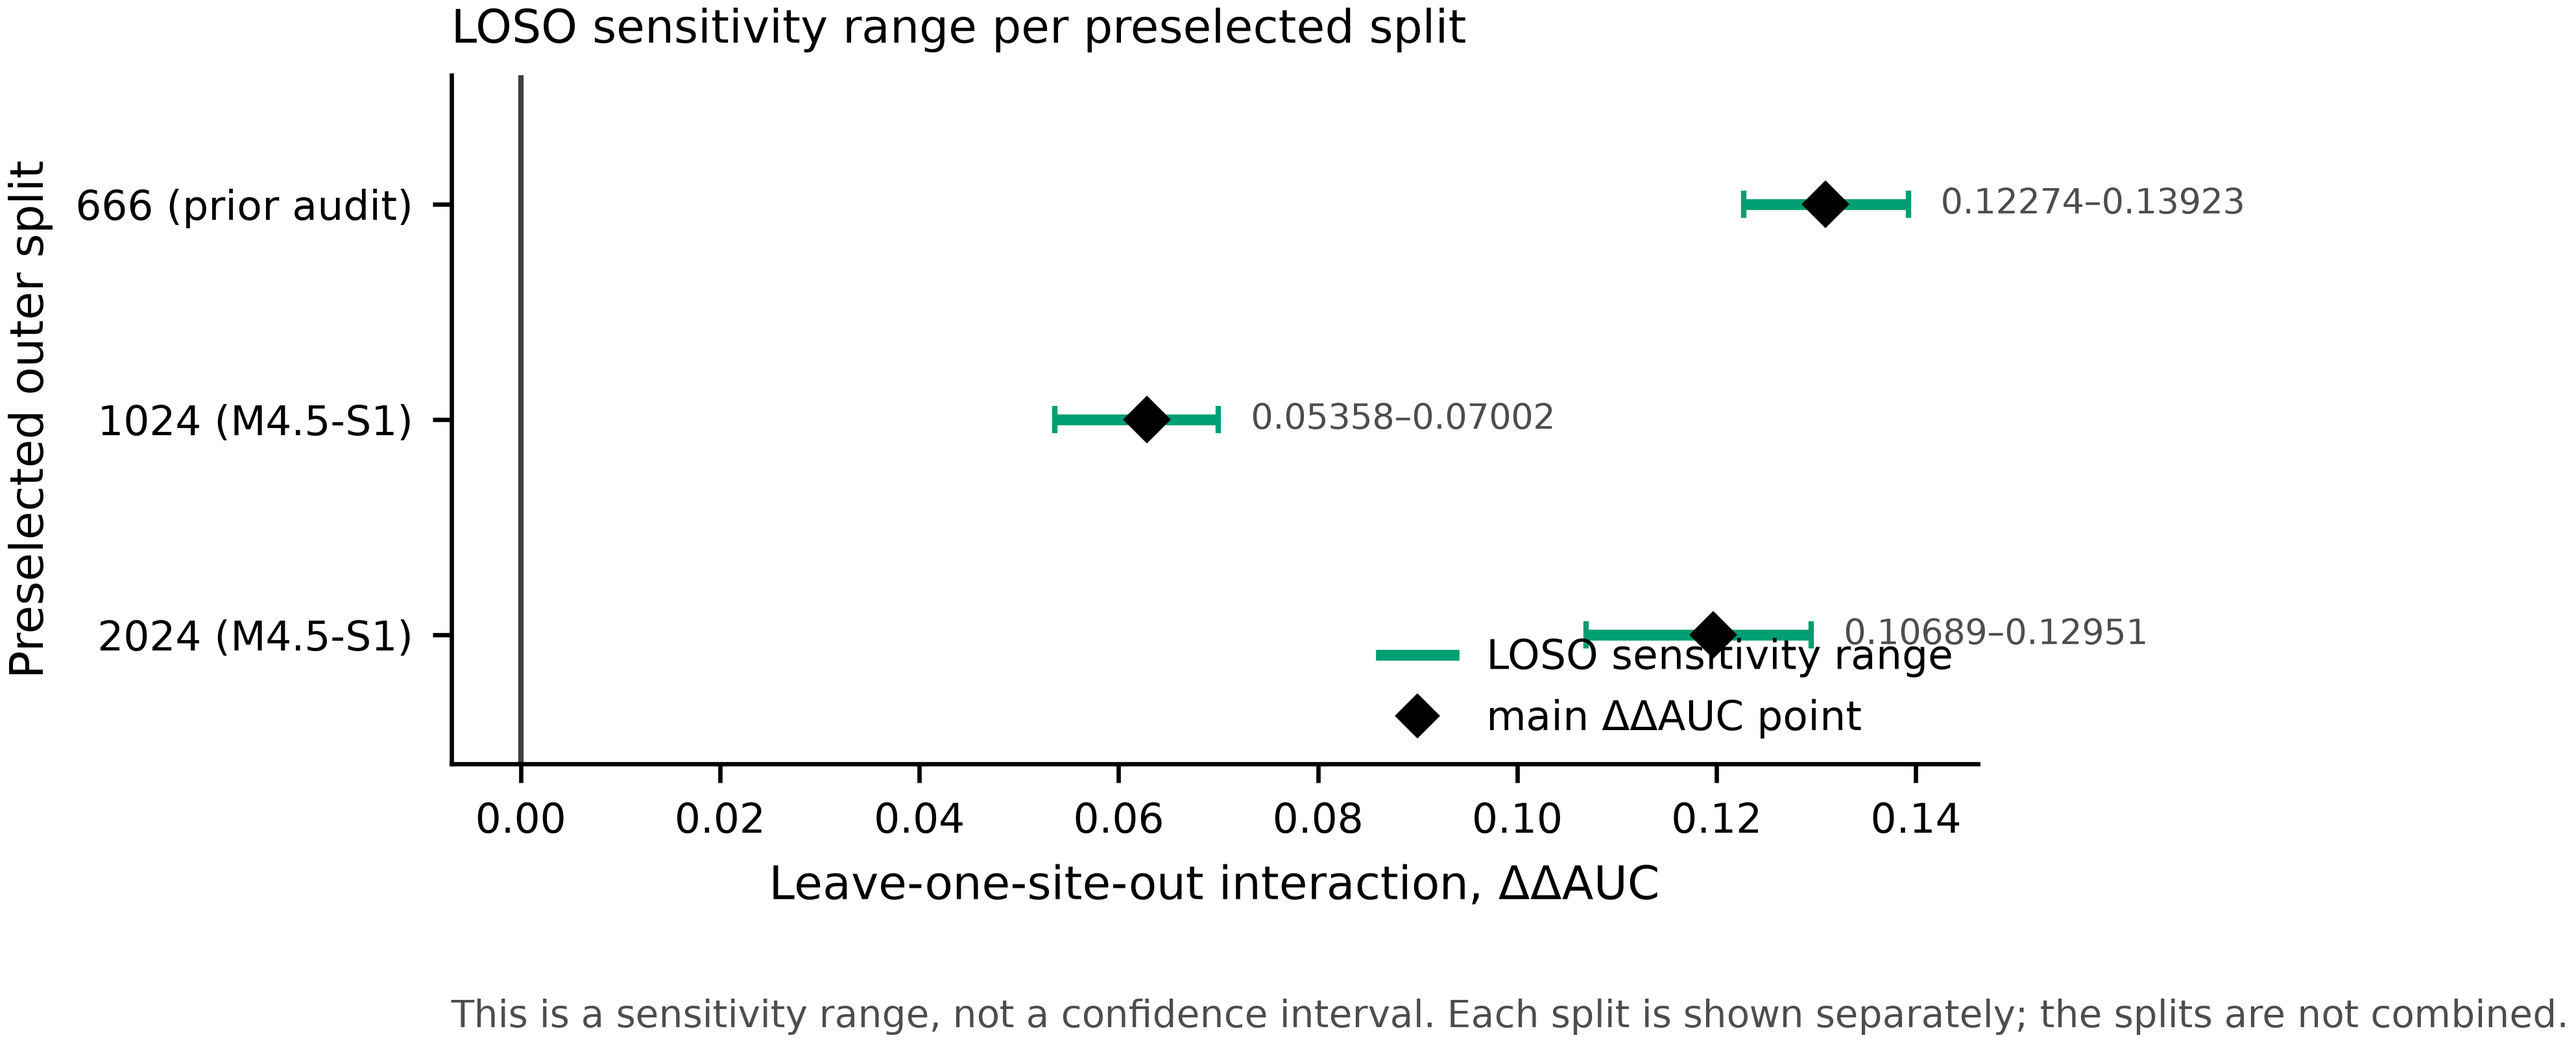
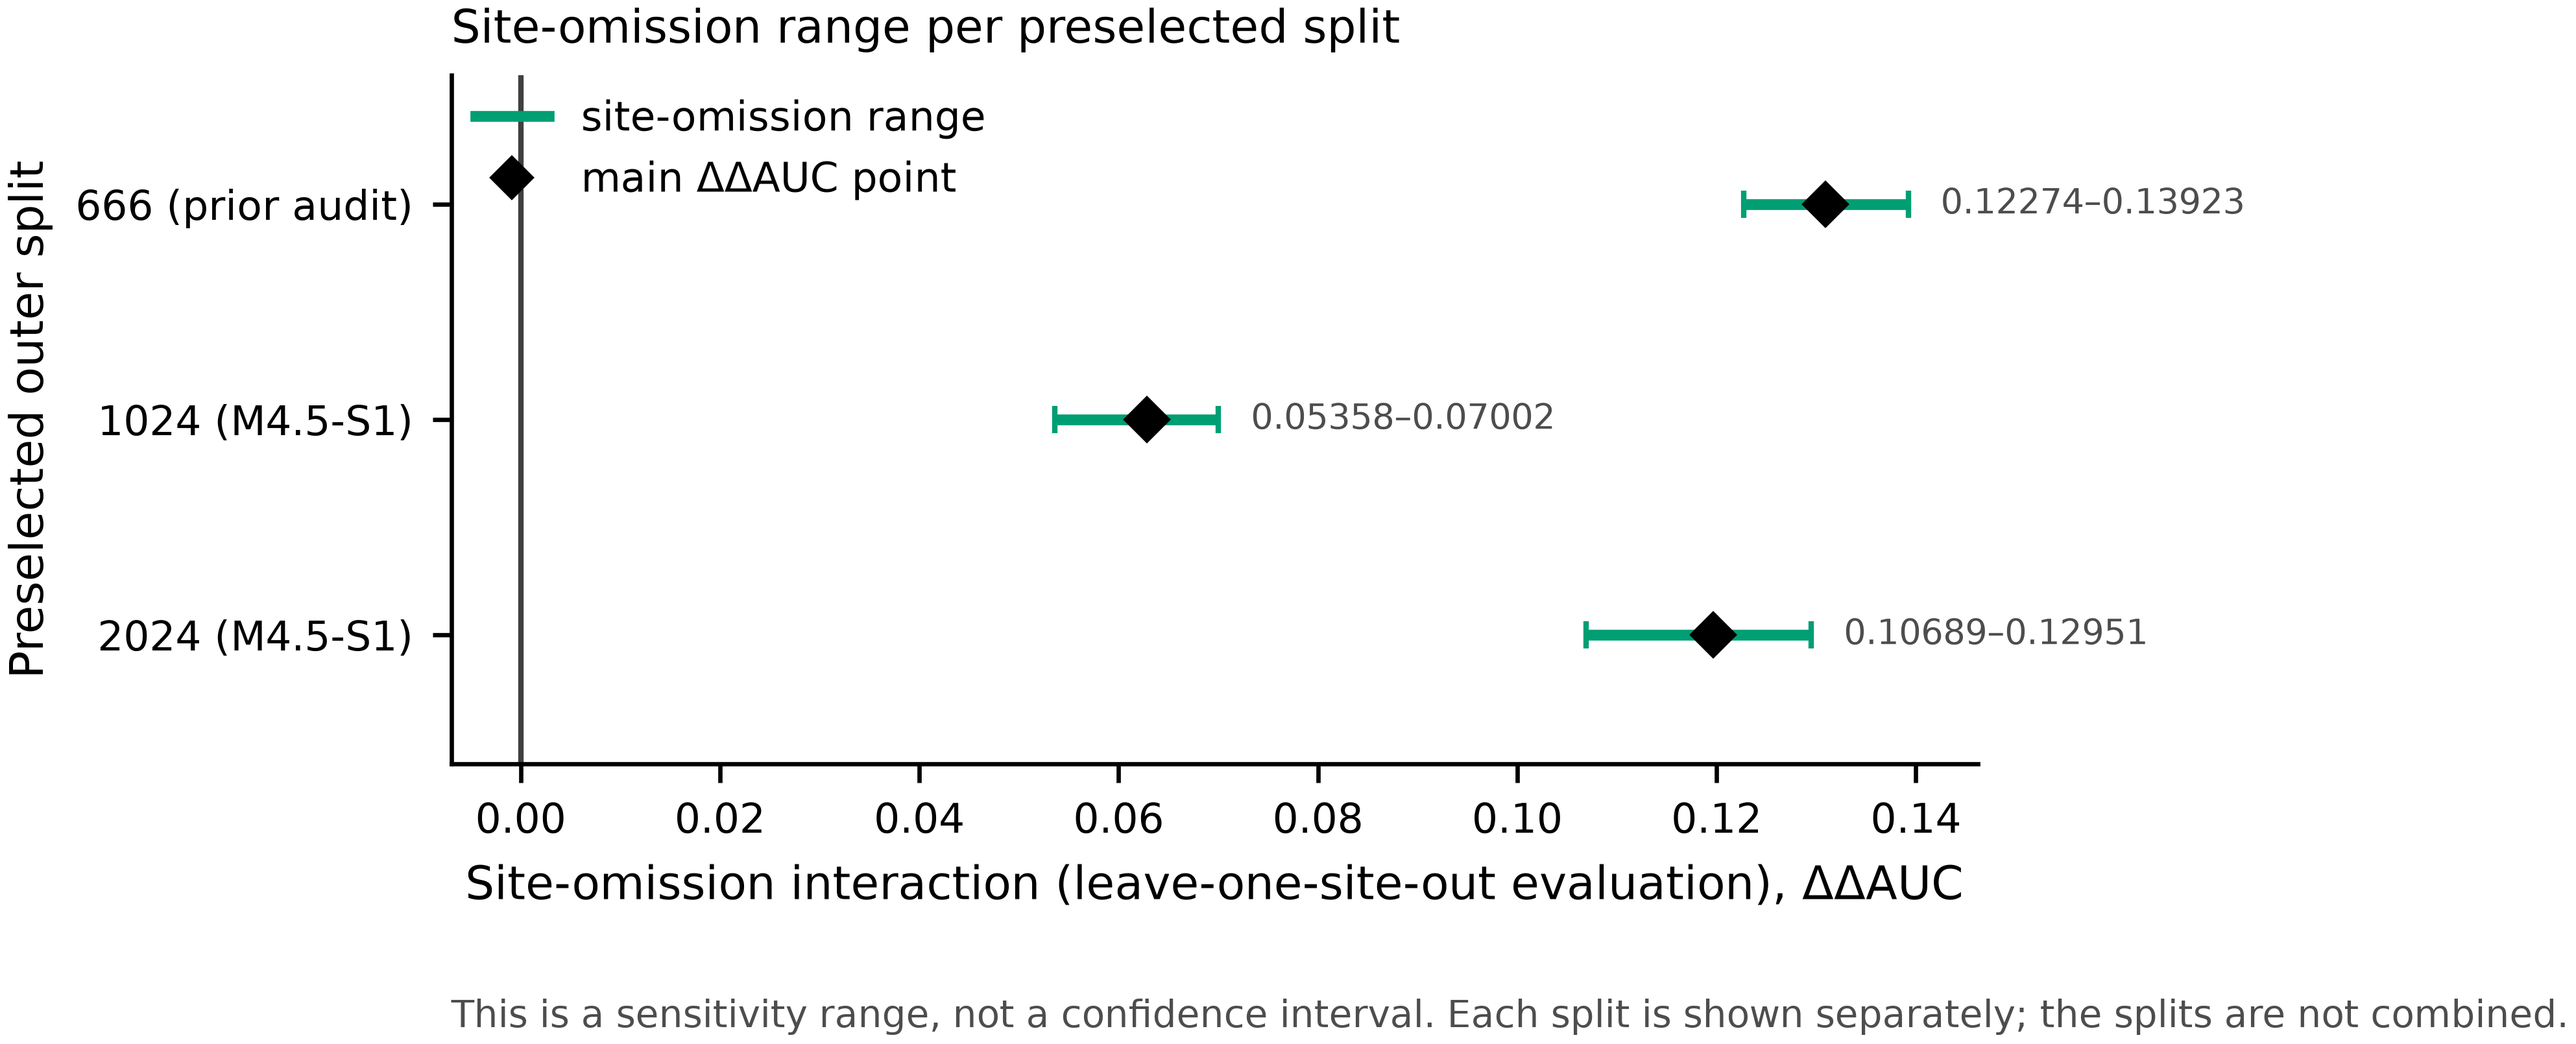
R5: sync public docs, citation and Figure S1 with manuscript RC5.3
- README: manuscript/version/date mapping (RC4 -> v1.0.0, RC5.3 -> this revision);
  bioRxiv submitted 2026-10-02, first posted 2026-10-08; preprint DOI and CC-BY 4.0
- CITATION.cff: preferred-citation for the preprint DOI (software version untouched)
- docs/REGIME_DEFINITIONS.md: site-omission is computed on fixed OOF predictions, no refit
- figures/FS2: LOSO -> site-omission wording, legend lower-right -> upper-left, regenerated
  PDF/SVG/PNG and manifest; numeric content unchanged
- CHANGELOG.md: 1.0.1 (unreleased) entries
No result, split, prediction or checkpoint changed.

diff --git a/figures/FS2_loso_sensitivity.py b/figures/FS2_loso_sensitivity.py
@@ -124,12 +124,12 @@ ax.set_yticks([ys[s] for s in ("666", "1024", "2024")],
               [STAGE_LABEL[s] for s in ("666", "1024", "2024")])
 ax.set_ylim(-0.6, 2.6)
 ax.set_ylabel("Preselected outer split")
-ax.set_xlabel("Leave-one-site-out interaction, ΔΔAUC")
-ax.set_title("LOSO sensitivity range per preselected split", loc="left", pad=6)
+ax.set_xlabel("Site-omission interaction (leave-one-site-out evaluation), ΔΔAUC")
+ax.set_title("Site-omission range per preselected split", loc="left", pad=6)
 ax.legend(handles=[
-    Line2D([], [], color=CB["green"], lw=2.0, label="LOSO sensitivity range"),
+    Line2D([], [], color=CB["green"], lw=2.0, label="site-omission range"),
     Line2D([], [], color="black", marker="D", ls="none", ms=5, label="main ΔΔAUC point"),
-], loc="lower right", frameon=False, handlelength=1.8, borderaxespad=0.2)
+], loc="upper left", frameon=False, handlelength=1.8, borderaxespad=0.2)
 ax.annotate("This is a sensitivity range, not a confidence interval. Each split is shown "
             "separately; the splits are not combined.",
             xy=(0, -0.34), xycoords="axes fraction", fontsize=7.0, color=CB["grey"],
@@ -188,6 +188,11 @@ manifest = {
     "shared_module": {"path": "figures/_frozen_inputs.py",
                       "sha256": sha(Path(__file__).resolve().parent / "_frozen_inputs.py")},
     "command": "python3 figures/FS2_loso_sensitivity.py  (run from the repository root; pinned artifacts were rendered from this source)",
+    "revision_note": "261018: in-figure wording changed from LOSO to site-omission (title, x-axis, legend), "
+                     "and the legend was moved from lower-right to upper-left. The previously shipped PDF "
+                     "shows the legend at upper-left although this script said 'lower right', so the shipped "
+                     "artwork and the script were not in agreement; regeneration now matches the shipped layout. "
+                     "No value, range or axis scale changed.",
     "outputs": {o: sha(FIGDIR / o) for o in ("FS2_loso_sensitivity.pdf", "FS2_loso_sensitivity.svg",
                                              "FS2_loso_sensitivity.png")},
     "environment": {"python": platform.python_version(), "matplotlib": matplotlib.__version__,

diff --git a/CHANGELOG.md b/CHANGELOG.md
@@ -1,0 +1,38 @@
+# Changelog
+
+## 1.0.1 (unreleased; prepared 2026-10-19)
+
+Documentation, display and metadata only. No result, range, split, prediction or checkpoint was
+recomputed, and nothing in `frozen_results/` changed.
+
+### Terminology
+
+- Figure S1 (supplementary site-omission sensitivity plot): `LOSO` replaced by `site-omission` in
+  the title, the x-axis label and the legend. The analysis omits one site at a time from the
+  **fixed** out-of-fold predictions and does not refit; `P5/LOSO` remains the name of the
+  training-time campaign on axis (b).
+- `docs/REGIME_DEFINITIONS.md`: added a paragraph that separates the reported site-omission
+  sensitivity range from the P5/LOSO training regime.
+
+### Display
+
+- Figure S1: the legend moved from lower-right to upper-left. The shipped v1.0.0 artwork already
+  showed it upper-left while the script still said `lower right`; the regenerated figure now
+  agrees with both the shipped layout and the script.
+- `figures/FS2_loso_sensitivity_manifest.yaml`: `revision_note` records the wording and legend
+  changes.
+
+### Metadata
+
+- `README.md`: version-to-manuscript mapping (RC4 -> `v1.0.0` / `b83ad83`; RC5.3 -> this
+  revision), the distinction between the bioRxiv submission date (2026-10-02) and the first
+  posting date (2026-10-08), the preprint DOI and its CC-BY 4.0 licence.
+- `CITATION.cff`: added `preferred-citation` pointing at the preprint DOI; the software version
+  and the Zenodo v1.0.0 DOI are unchanged until the release is cut.
+
+### Unchanged
+
+- Split 666 still has no per-subject record; the reproducibility limitation stated in the README
+  stays as it is (its interaction is carried by the frozen record and cross-checked, not
+  recomputed).
+- The `v1.0.0` tag, its release assets and every published hash.

diff --git a/README.md b/README.md
@@ -1,8 +1,18 @@
 # population-graph-information-regimes
 
 This repository accompanies **"Information regimes in population-graph neuroimaging: cohort
-context and implementation-dependent evaluation sensitivity"** (submission version RC4,
-2026-09-30).
+context and implementation-dependent evaluation sensitivity"**.
+
+Manuscript versions and dates: the first public release (tag `v1.0.0`, commit `b83ad83`)
+accompanied manuscript **RC4 (2026-09-30)**. The revision prepared here supports manuscript
+**RC5.3 (2026-10-19)** and is not yet released. The manuscript was submitted to bioRxiv on
+**2 October 2026** and first posted on **8 October 2026** (DOI
+`10.64898/2026.10.02.756253`, CC-BY 4.0).
+
+| manuscript | date | this repository |
+|---|---|---|
+| RC4 | 2026-09-30 | tag `v1.0.0`, commit `b83ad83` |
+| RC5.3 | 2026-10-19 | this revision; release pending author approval |
 
 It reproduces the controlled **P0/P1 evaluation-regime experiments** for two
 population-graph implementations (EV-GCN, learned/adaptive graph; Parisot-GCN, static
@@ -58,6 +68,9 @@ Code: GPL-3.0 (the controlled implementations wrap GPL-3.0 upstreams; see
 ## Citation
 
 Repository: <https://github.com/mindloop-lab/population-graph-information-regimes>
+
+Paper preprint: <https://doi.org/10.64898/2026.10.02.756253> (bioRxiv; submitted 2 October 2026,
+first posted 8 October 2026, CC-BY 4.0).
 
 Software archive (v1.0.0): DOI `10.5281/zenodo.23104123` — see `CITATION.cff`. Cite both the
 software record and the paper.

diff --git a/docs/REGIME_DEFINITIONS.md b/docs/REGIME_DEFINITIONS.md
@@ -24,6 +24,14 @@ target-site context) and P5/LOSO (leave-one-site-out) live on this axis. They be
 separate, earlier campaign with its own estimands and are **not** merged with the primary
 P0/P1 evidence.
 
+## Site-omission sensitivity analysis (reported next to the primary estimand)
+
+The paper's site-omission range is computed from the **fixed** out-of-fold predictions of the
+reported runs: the query subjects of one site are removed at a time and the AUC is recomputed on
+the remaining queries. **No model is refitted and no checkpoint is reselected**, so this is a
+sensitivity range over the evaluation set, not a training-time site hold-out. It is distinct from
+P5/LOSO on axis (b), where the omitted site is also removed from training.
+
 ## Primary estimand
 
 The implementation-by-training-context interaction, per split s:
